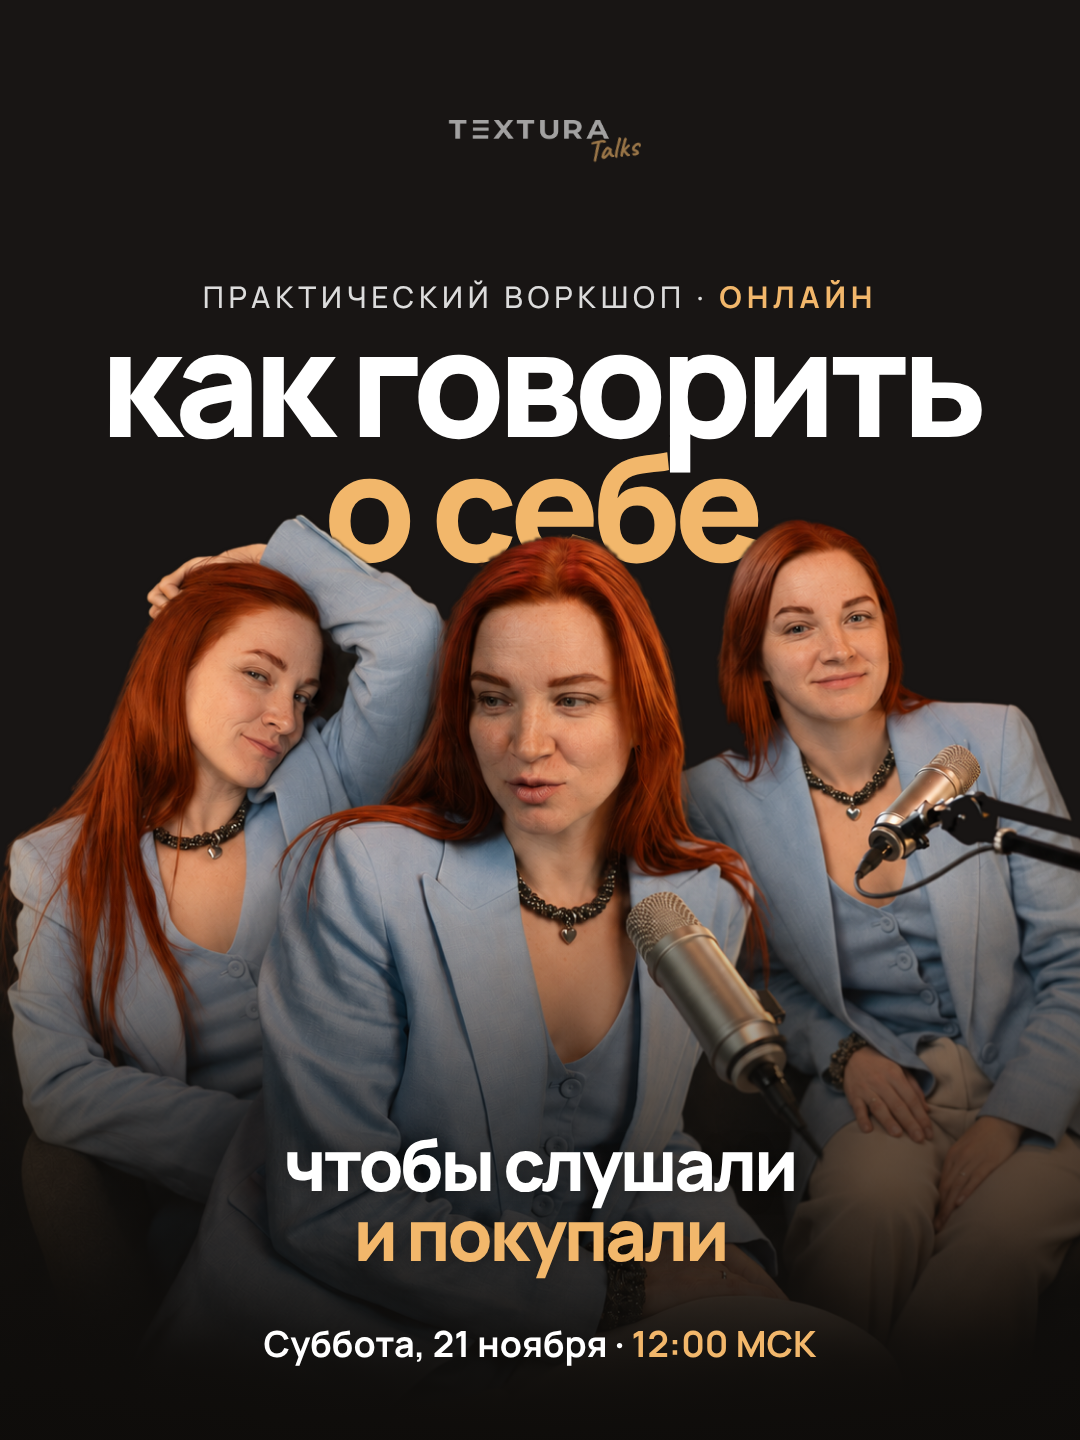
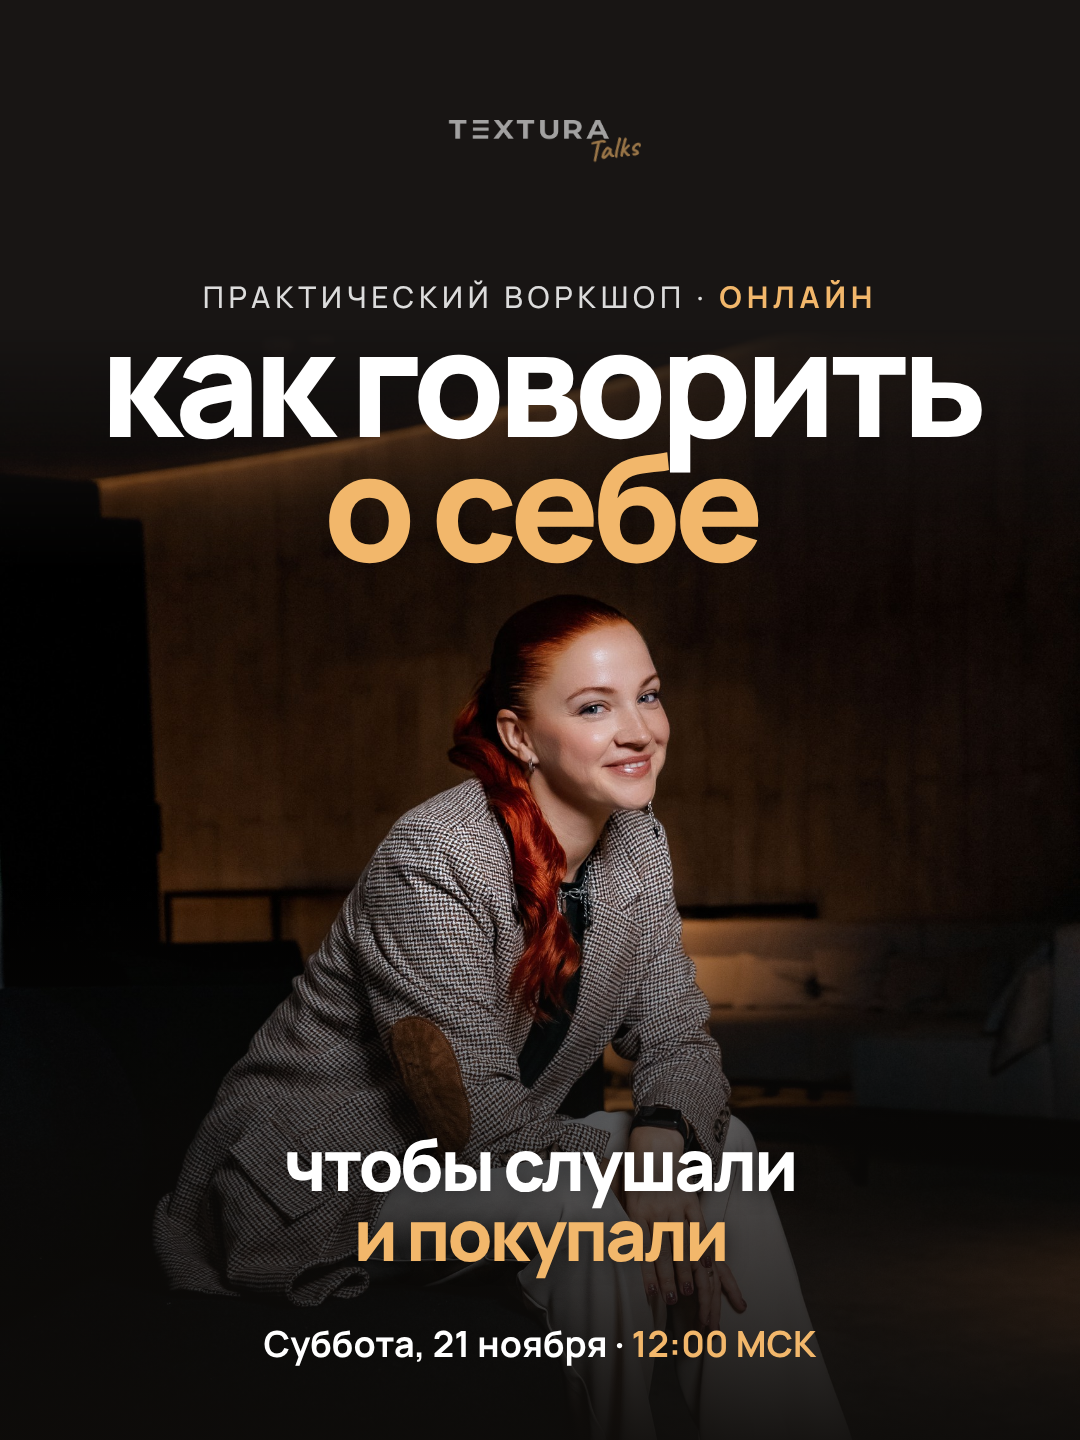
Workshop carousel: new Polina photos on cover and speaker slide
Claude-Session: https://claude.ai/code/session_01EUhV7va23MNh7ydDpeuyX7

diff --git a/textura-carousel/workshop.html b/textura-carousel/workshop.html
@@ -156,8 +156,8 @@
     <div style="position:relative; display:inline-block; left:-11px;"><img src="photos/textura-logo.png" style="width:160px; display:block;" alt="TEXTURA"><span style="position:absolute; right:-29px; top:13px; font-family:Caveat, cursive; font-weight:700; font-size:30px; color:#F2B76B; transform:rotate(-7deg); line-height:1;">Talks</span></div>
   </div>
   <div style="position:absolute; left:0; right:0; top:276px; z-index:4; text-align:center; font-weight:500; font-size:30px; letter-spacing:.16em; text-transform:uppercase; color:rgba(255,255,255,.85);">Практический воркшоп · <span style="color:var(--accent); font-weight:700;">онлайн</span></div>
-  <div style="position:absolute; left:0; right:0; top:318px; z-index:1; text-align:center; font-weight:800; font-size:148px; line-height:.84; letter-spacing:-.05em; color:#fff;">как говорить<br><span style="color:var(--accent);">о&nbsp;себе</span></div>
-  <img src="photos/three-cut.png" style="position:absolute; left:0; top:120px; width:1080px; z-index:2;" alt="">
+  <div style="position:absolute; left:0; right:0; top:318px; z-index:3; text-align:center; font-weight:800; font-size:148px; line-height:.84; letter-spacing:-.05em; color:#fff;">как говорить<br><span style="color:var(--accent);">о&nbsp;себе</span></div>
+  <div style="position:absolute; left:0; right:0; top:330px; height:1110px; z-index:2; background:url(photos/pol-sit.jpg) 50% 18%/1080px auto no-repeat; -webkit-mask-image:linear-gradient(180deg,transparent 0%,#000 22%); mask-image:linear-gradient(180deg,transparent 0%,#000 22%);"></div>
   <div style="position:absolute; left:0; right:0; bottom:0; height:560px; z-index:2; background:linear-gradient(180deg, rgba(14,12,10,0) 0%, rgba(14,12,10,.6) 45%, rgba(14,12,10,.95) 100%);"></div>
   <div style="position:absolute; left:0; right:0; bottom:170px; z-index:3; text-align:center; font-weight:800; font-size:72px; line-height:.98; letter-spacing:-.045em; text-shadow:0 2px 20px rgba(0,0,0,.5);">чтобы слушали<br><span style="color:var(--accent);">и&nbsp;покупали</span></div>
   <div style="position:absolute; left:0; right:0; bottom:72px; z-index:3; text-align:center; font-weight:700; font-size:36px; color:#fff;">Суббота, 21 ноября · <span style="color:var(--accent);">12:00 МСК</span></div>
@@ -189,7 +189,7 @@
 <div class="body"><div class="lbl">Вы уйдёте с</div>
 <div class="h" style="font-size:78px;">готовыми вариантами<br><span class="g">самопрезентации</span></div>
 <div class="t">которые сможете использовать на&nbsp;мероприятиях, в&nbsp;переговорах, интервью, соцсетях и&nbsp;общении с&nbsp;клиентами</div></div></section>
-<section class="slide m"><div class="ph" style="top:680px; background-image:url(photos/guest.jpg); background-position:50% 30%;"></div><div class="mlogo"><div><img src="photos/textura-logo.png" alt="TEXTURA"><span>Talks</span></div></div>
+<section class="slide m"><div class="ph" style="top:680px; background-image:url(photos/pol-stand.jpg); background-size:1500px auto; background-position:56% 15%;"></div><div class="mlogo"><div><img src="photos/textura-logo.png" alt="TEXTURA"><span>Talks</span></div></div>
 <div class="body"><div class="lbl">Кто ведёт</div>
 <div class="h" style="font-size:78px;">Полина <span class="g">Язвенко</span></div>
 <div class="t" style="font-size:31px;">Предприниматель, тренер по&nbsp;публичным выступлениям, эксперт по&nbsp;публичности и&nbsp;медийности. Основатель онлайн-школы TEXTURA с&nbsp;образовательной лицензией</div>
